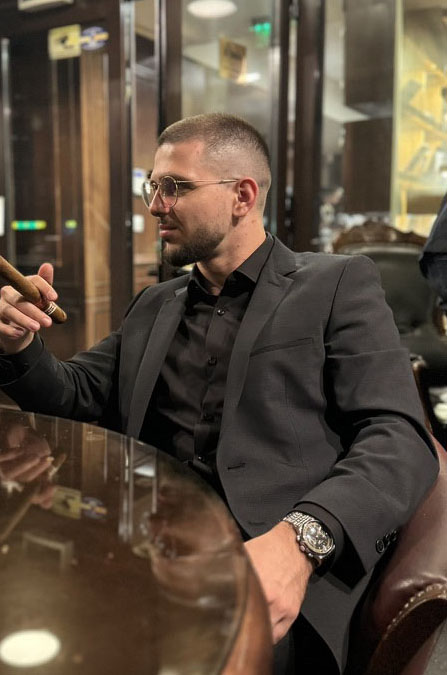
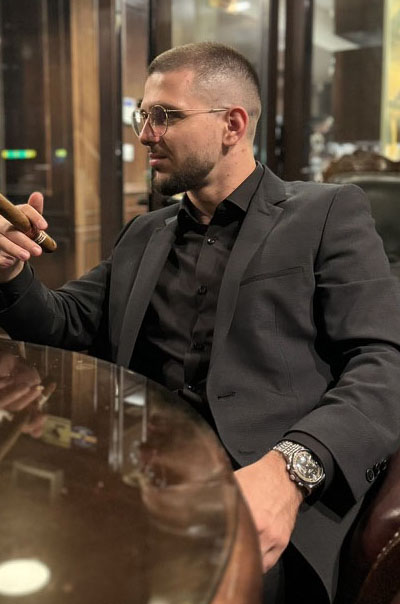
Update layouts

diff --git a/components/Gallery.tsx b/components/Gallery.tsx
@@ -20,14 +20,14 @@ const Gallery = () => {
           className="rounded-lg object-cover"
         />
       </div>
-      <div className="relative sm:row-span-2 row-span-1">
+      <div className="relative row-span-2">
         <Image
           alt="Me at a networking event with other freelancers."
           src={evening}
           fill
           sizes="(max-width: 768px) 213px, 33vw"
           priority
-          className="rounded-lg object-cover object-top sm:object-center"
+          className="rounded-lg object-cover object-center"
         />
       </div>
       <div className="relative">
@@ -47,17 +47,17 @@ const Gallery = () => {
           fill
           sizes="(max-width: 768px) 213px, 33vw"
           priority
-          className="rounded-lg object-cover sm:object-center"
+          className="rounded-lg object-cover"
         />
       </div>
-      <div className="relative row-span-2">
+      <div className="relative row-span-1 sm:row-span-2">
         <Image
           alt="Me holding a weekly Q&A with some of my students."
           src={lounge}
           fill
           sizes="(max-width: 768px) 213px, 33vw"
           priority
-          className="rounded-lg object-cover"
+          className="rounded-lg object-cover object-top sm:object-center"
         />
       </div>
       <div className="relative h-40">
